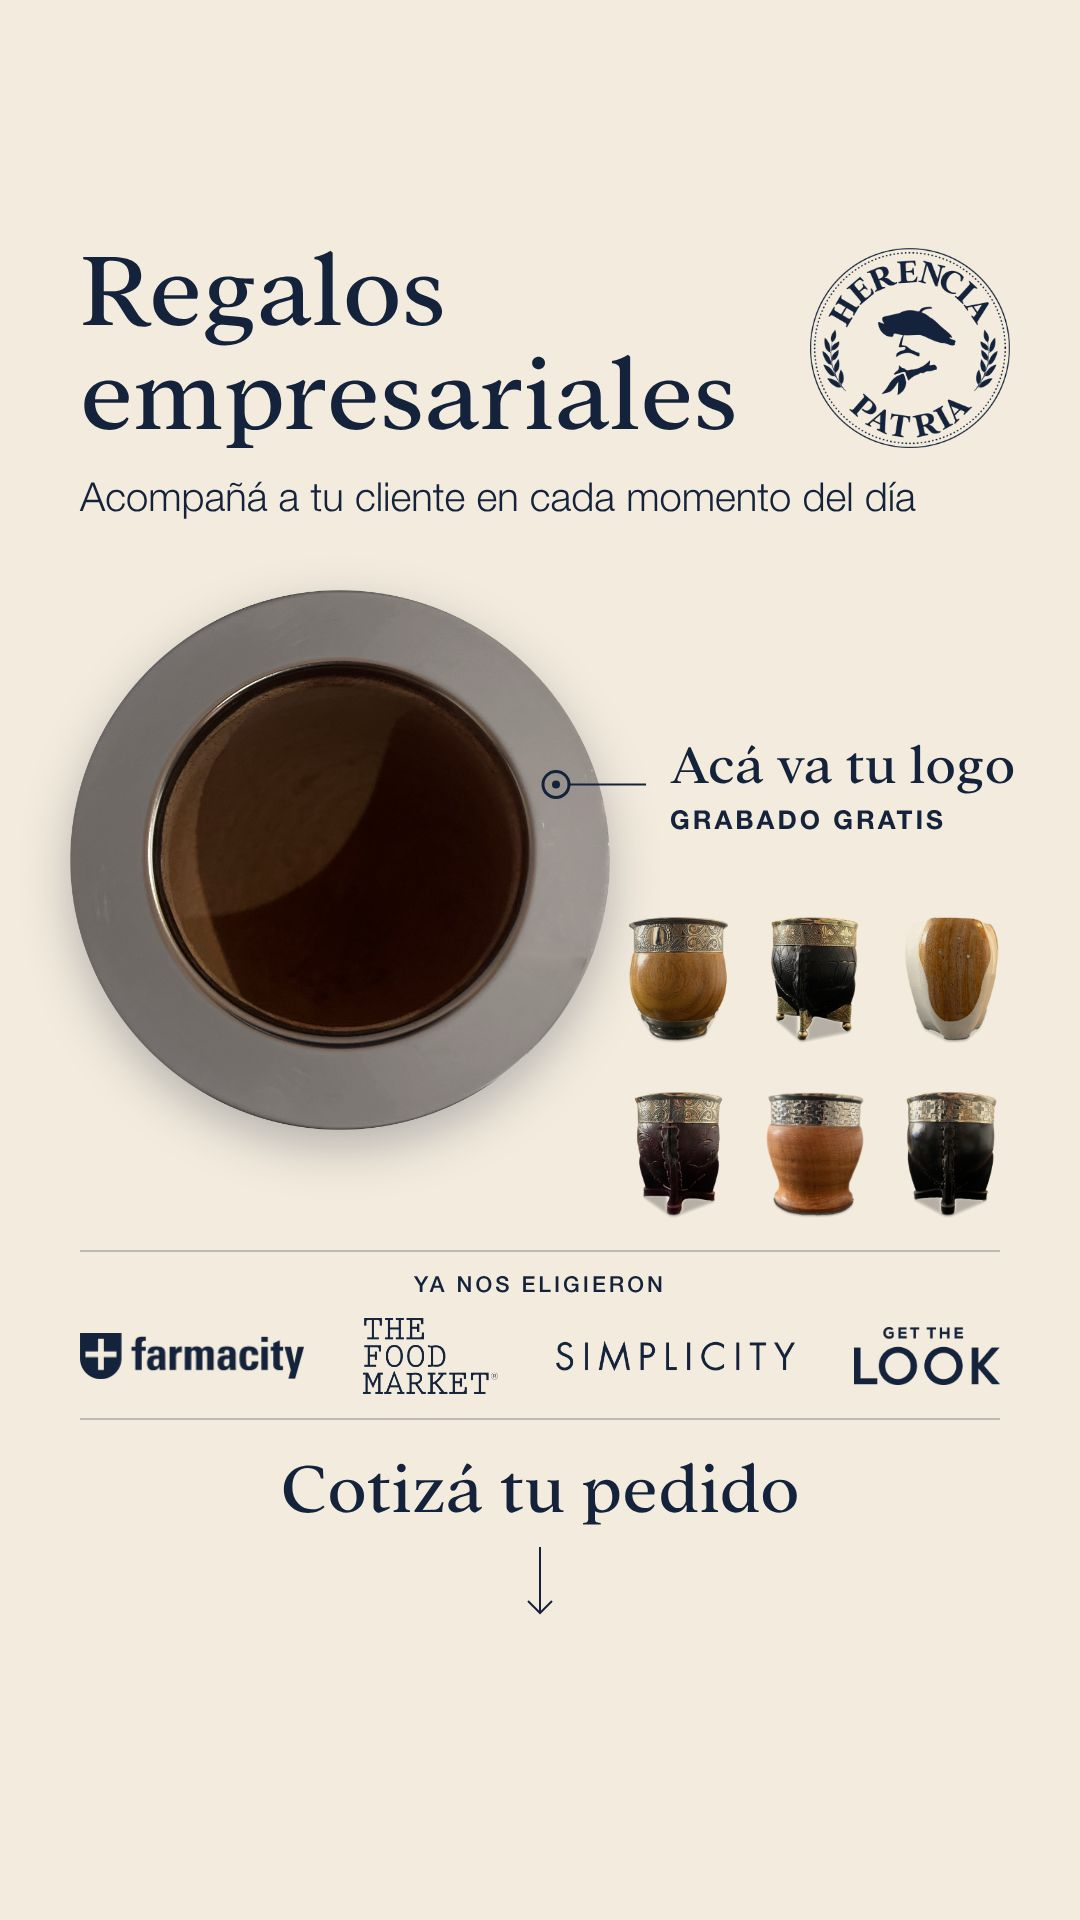
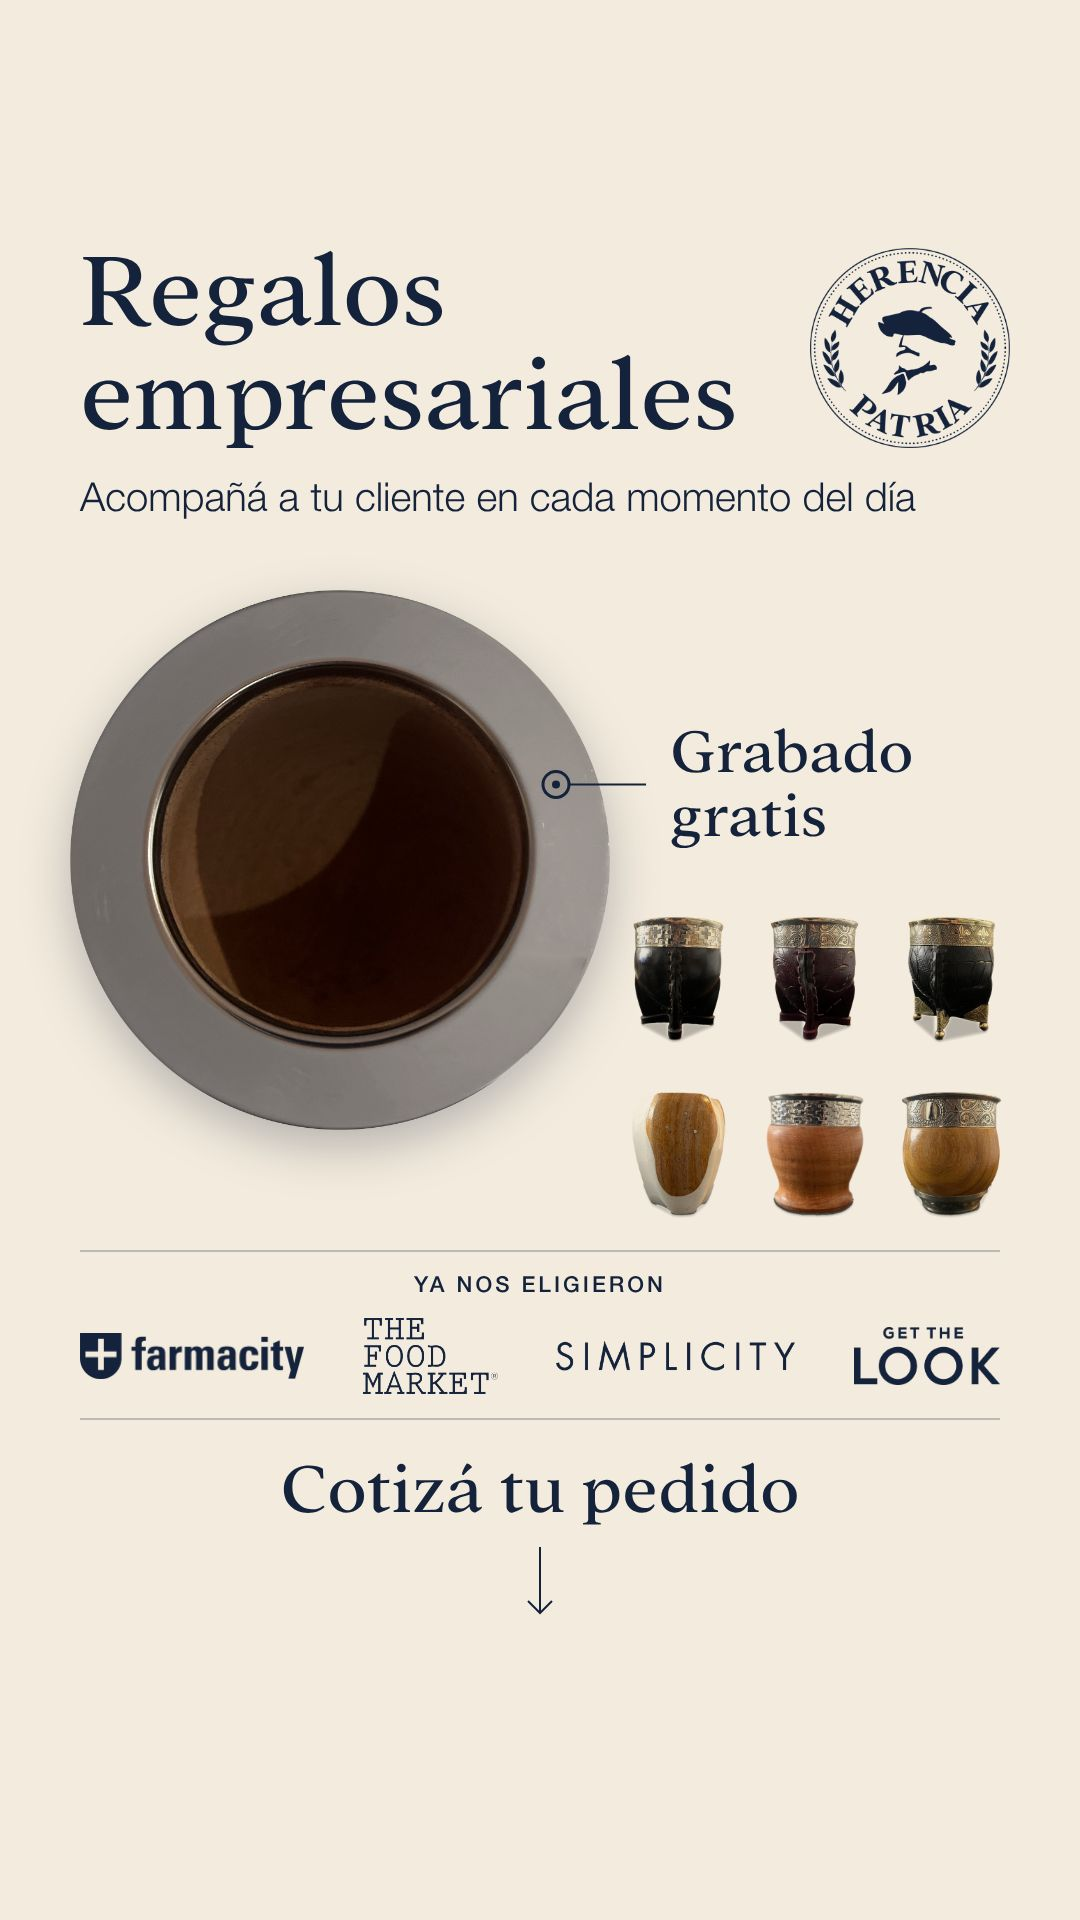
Historia empresarial B: sólo Grabado gratis y mates ordenados por tipo
Arriba los de calabaza (simple, repujado, base bolita); abajo los de
algarrobo (ranchero, imperial, imperial con base).

Claude-Session: https://claude.ai/code/session_012H3xPSmbqKoMmc2aK7okNH

diff --git a/src/HerenciaPatria/HistoriaEmpresasLogo.tsx b/src/HerenciaPatria/HistoriaEmpresasLogo.tsx
@@ -3,8 +3,8 @@ import { colors, fonts } from "./brand";
 
 // Historia de Instagram (1080x1920) para los pedidos empresariales de fin
 // de año que muestra el beneficio en el producto: un mate grande y una línea
-// que señala el lugar donde va el logo de la empresa, el aro de la boca ("acá va
-// tu logo, grabado gratis"). Al lado, más chicos, otros modelos; abajo
+// que señala el lugar donde va el logo de la empresa, el aro de la boca
+// ("grabado gratis"). Al lado, más chicos, otros modelos; abajo
 // quiénes ya los eligieron y el llamado con una flecha hacia abajo.
 // Crema y azul, Addington y Helvetica Neue, como el resto de la marca. Lo que
 // hay que leer va entre 230 y 1620: Instagram tapa arriba el perfil y abajo
@@ -20,7 +20,7 @@ export const HistoriaEmpresasLogo: React.FC<{
   // el logo, en fracción del ancho y del alto de la foto.
   readonly heroe: string;
   readonly punto: [x: number, y: number];
-  readonly anotacion: [string, string];
+  readonly anotacion: string;
   readonly otros: string[];
   readonly confianza: string;
   readonly logos: [archivo: string, alto: number][];
@@ -132,17 +132,12 @@ export const HistoriaEmpresasLogo: React.FC<{
       <div
         style={{
           position: "absolute",
-          top: py - 46,
+          top: py - 64,
           left: xTexto,
           right: 60,
         }}
       >
-        <div style={{ fontSize: 56, lineHeight: 1 }}>{anotacion[0]}</div>
-        <div
-          style={{ ...rotulo, fontWeight: 700, fontSize: 26, marginTop: 14 }}
-        >
-          {anotacion[1]}
-        </div>
+        <div style={{ fontSize: 64, lineHeight: 1 }}>{anotacion}</div>
       </div>
       <div
         style={{

diff --git a/src/Root.tsx b/src/Root.tsx
@@ -434,14 +434,16 @@ export const RemotionRoot: React.FC = () => {
           bajada: "Acompañá a tu cliente en cada momento del día",
           heroe: "mate-boca-arriba.png",
           punto: [0.9, 0.36] as [number, number],
-          anotacion: ["Acá va tu logo", "Grabado gratis"] as [string, string],
+          anotacion: "Grabado gratis",
+          // Arriba los de calabaza (simple, repujado y base bolita); abajo
+          // los de algarrobo (ranchero, imperial e imperial con base).
           otros: [
-            "producto/mate-algarrobo-blanco.jpg",
+            "producto/mate-negro-guarda-pampa.jpg",
+            "producto/mate-bordo-cuero-cincelado.jpg",
             "producto/mate-negro-dorado-flor-de-lis.jpg",
             "producto/mate-madera-pintado-blanco.jpg",
-            "producto/mate-bordo-cuero-cincelado.jpg",
             "producto/mate-algarrobo-imperial.jpg",
-            "producto/mate-negro-guarda-pampa.jpg",
+            "producto/mate-algarrobo-blanco.jpg",
           ],
           confianza: "Ya nos eligieron",
           logos: [
